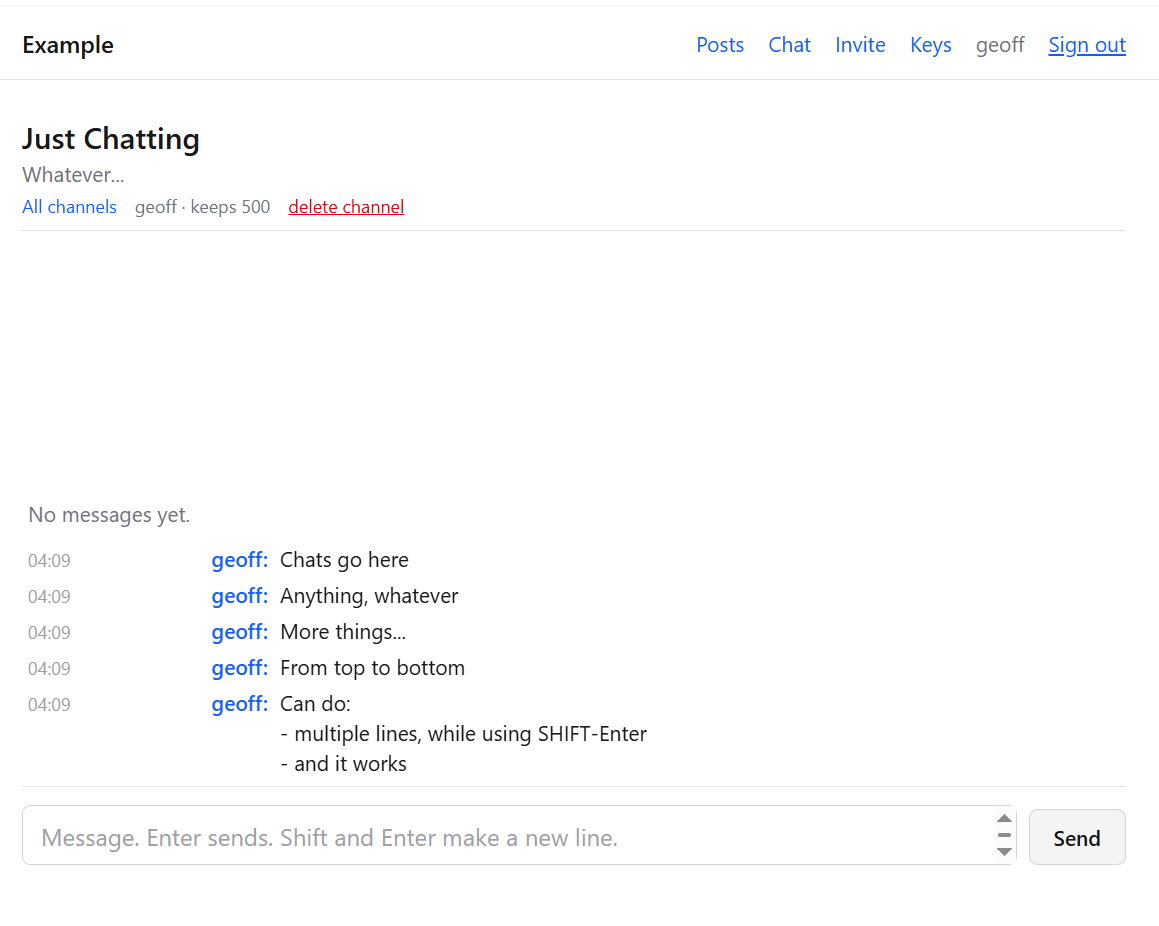
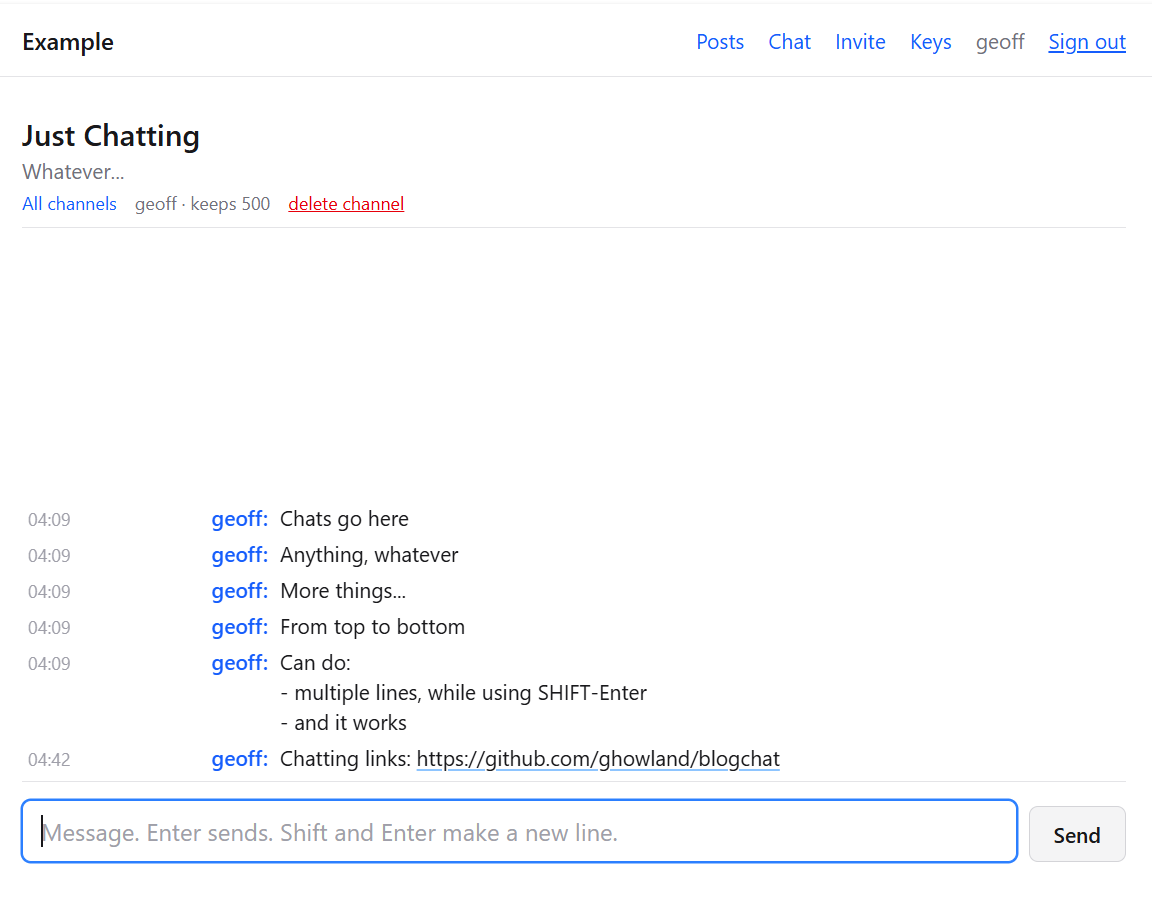
doc images, chat does links now

diff --git a/code/handlers.go b/code/handlers.go
@@ -36,12 +36,13 @@ func isHTMX(req *http.Request) bool {
 	return req.Header.Get("HX-Request") == "true"
 }
 
-// chatItem makes the template context of one chat line.
+// chatItem makes the template context of one chat line. Both the channel
+// page and the poll fragment use this, so a change here applies to both.
 func chatItem(line Reply, canDelete bool) map[string]any {
 	return map[string]any{
 		"id":         line.ID,
 		"handle":     line.Handle,
-		"body":       line.Body,
+		"parts":      bodyParts(line.Body),
 		"when":       clockText(line.CreatedAt),
 		"can_delete": canDelete,
 	}
